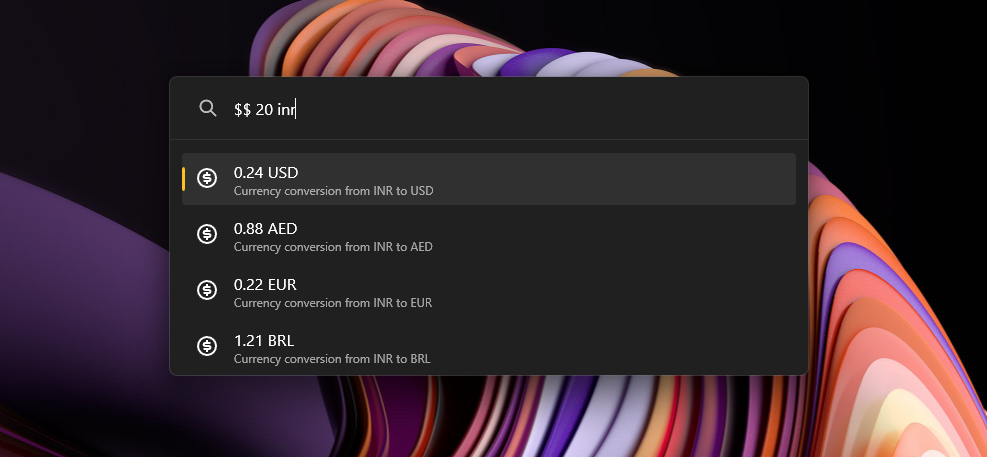
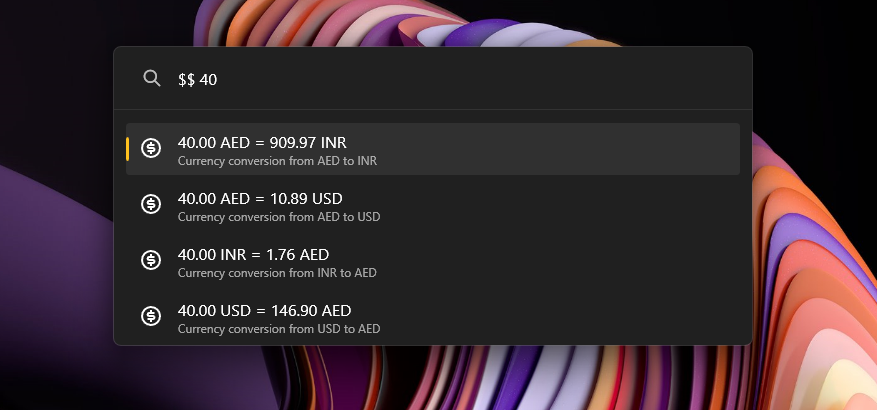
Version 1.1.2

Changed region(s): [[0.0, 0.0, 1.0, 1.0], [0.1231, 0.2634, 0.431, 0.439], [0.0, 0.9366, 0.0924, 1.0]]

diff --git a/README.md b/README.md
@@ -42,15 +42,14 @@ $$ 102.2
 
 ![Screenshot](screenshots/screenshot4.png)
 
-Or, you can convert any currency to your local and global including the extra currencies by:
+### Output formatting
 
-```
-$$ 1 eur
-```
+The plugin supports two modes of output
+
+1. Short Text: The output will contain the to currency only
+2. Full Text: The output will contain the from currency and the to currency
 
 ![Screenshot](screenshots/screenshot5.png)
-
-Your local currency, global currency and the quick conversion direction can also be changed from the settings page in PowerToys Run under this plugin. 
 
 ## Installation
 
